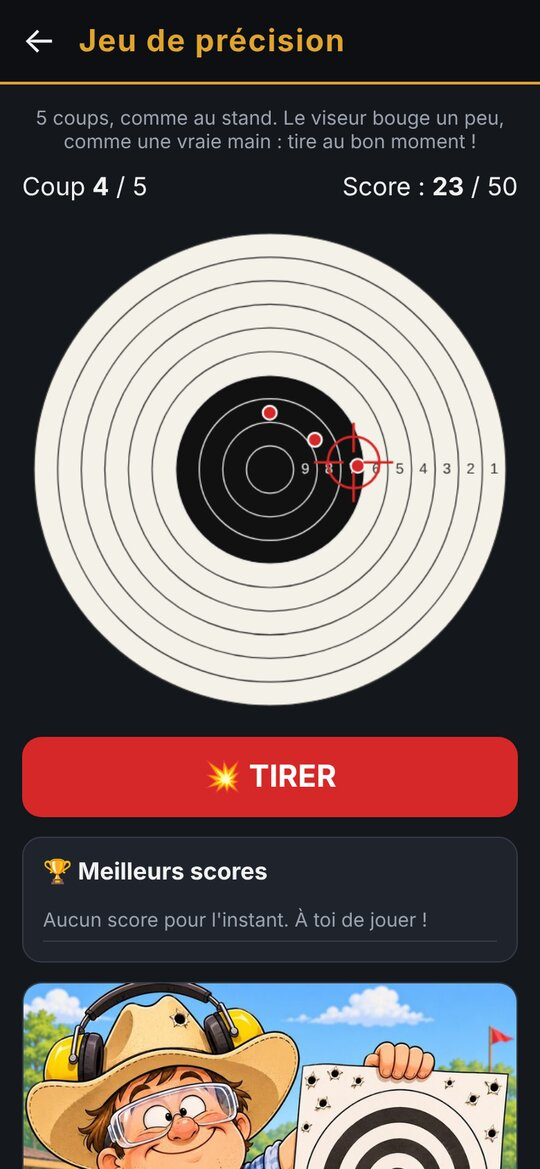
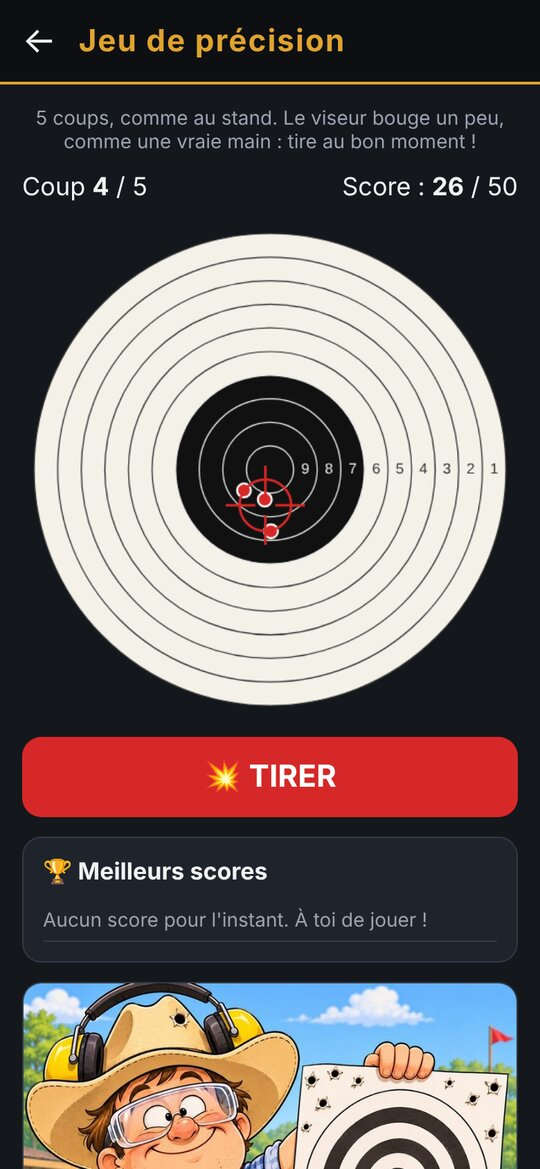
Tir Coach : page sans mention du T.A.A. (en attente de leur accord)
Claude-Session: https://claude.ai/code/session_012pvTCwSE3ZcYvmmeSn2ytc

diff --git a/tir-coach/index.html b/tir-coach/index.html
@@ -65,7 +65,7 @@
       <div class="carte"><b>&#128230; Munitions</b><br>Ton stock à la maison, avec le dessin de chaque calibre. Les coups tirés se retirent tout seuls.</div>
       <div class="carte"><b>&#128193; Mes papiers</b><br>Autorisations, papiers des armes, assurance : à montrer en plein écran en cas de contrôle.</div>
       <div class="carte"><b>&#129706; Licence &amp; certificat</b><br>Ton numéro de licence en très grand (pratique pour le cahier de présence) et des rappels avant la fin de validité.</div>
-      <div class="carte"><b>&#128197; Stands &amp; tirs de contrôle</b><br>Les horaires et les dates de ton stand. Le T.A.A. d'Eauze est déjà dedans.</div>
+      <div class="carte"><b>&#128197; Stands &amp; tirs de contrôle</b><br>Les horaires de ton stand et les dates des tirs de contrôle, toujours sous la main.</div>
       <div class="carte"><b>&#127891; Apprendre &amp; &#127919; jouer</b><br>Le petit lexique du tireur (calibres, lunettes, visée, réglementation) et un jeu de précision.</div>
     </div>
 
